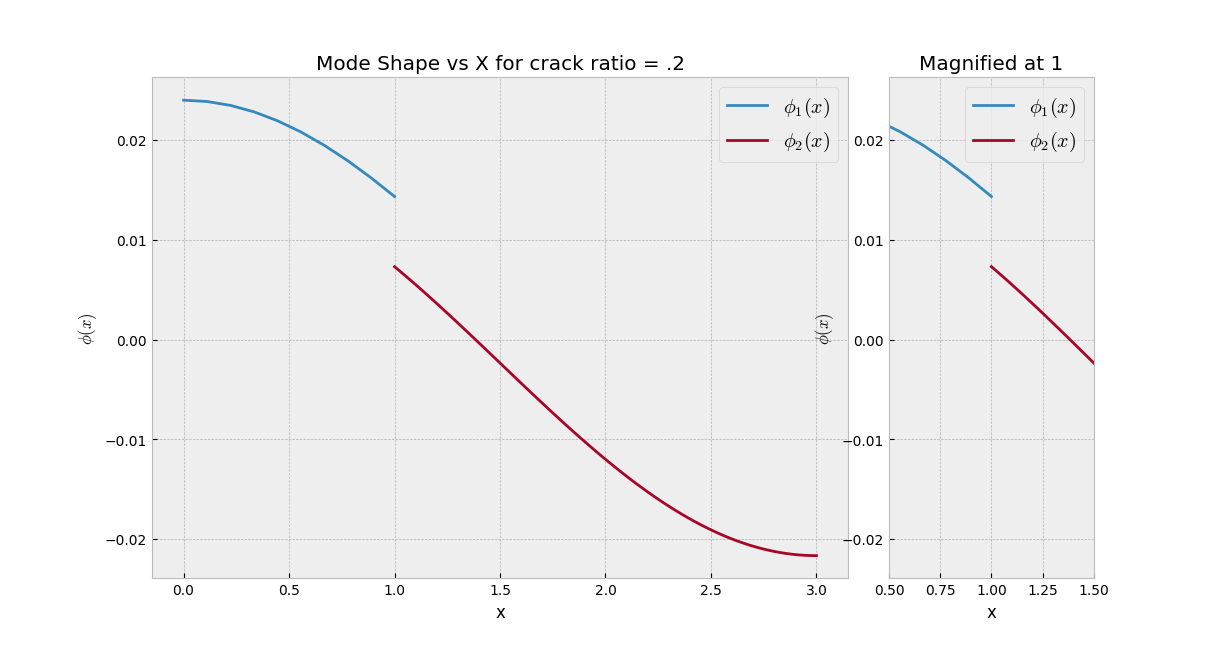
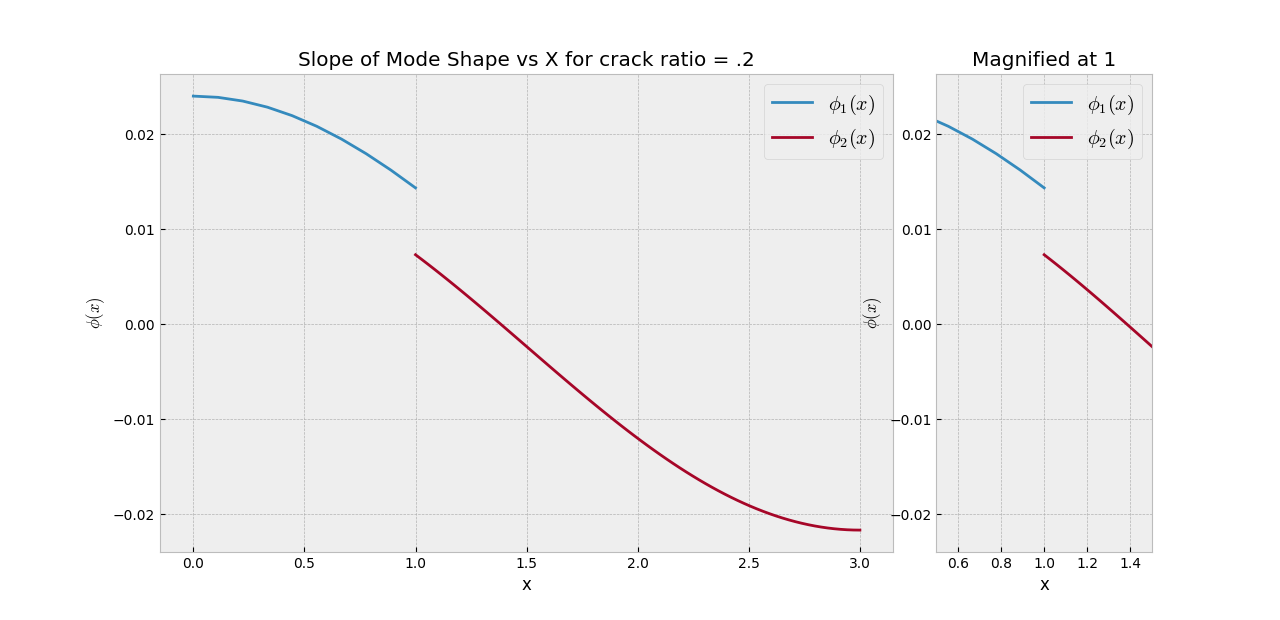
discontinuity

diff --git a/main.py b/main.py
@@ -134,7 +134,7 @@ gs = fig4.add_gridspec(1,4)
 ax = fig4.add_subplot(gs[0, 0:3])
 ay = fig4.add_subplot(gs[0, 3])
 
-ax.set_title("Mode Shape vs X for crack ratio = .2")
+ax.set_title("Slope of Mode Shape vs X for crack ratio = .2")
 ay.set_title("Magnified at 1")
 
 ax.set_xlabel("x")
